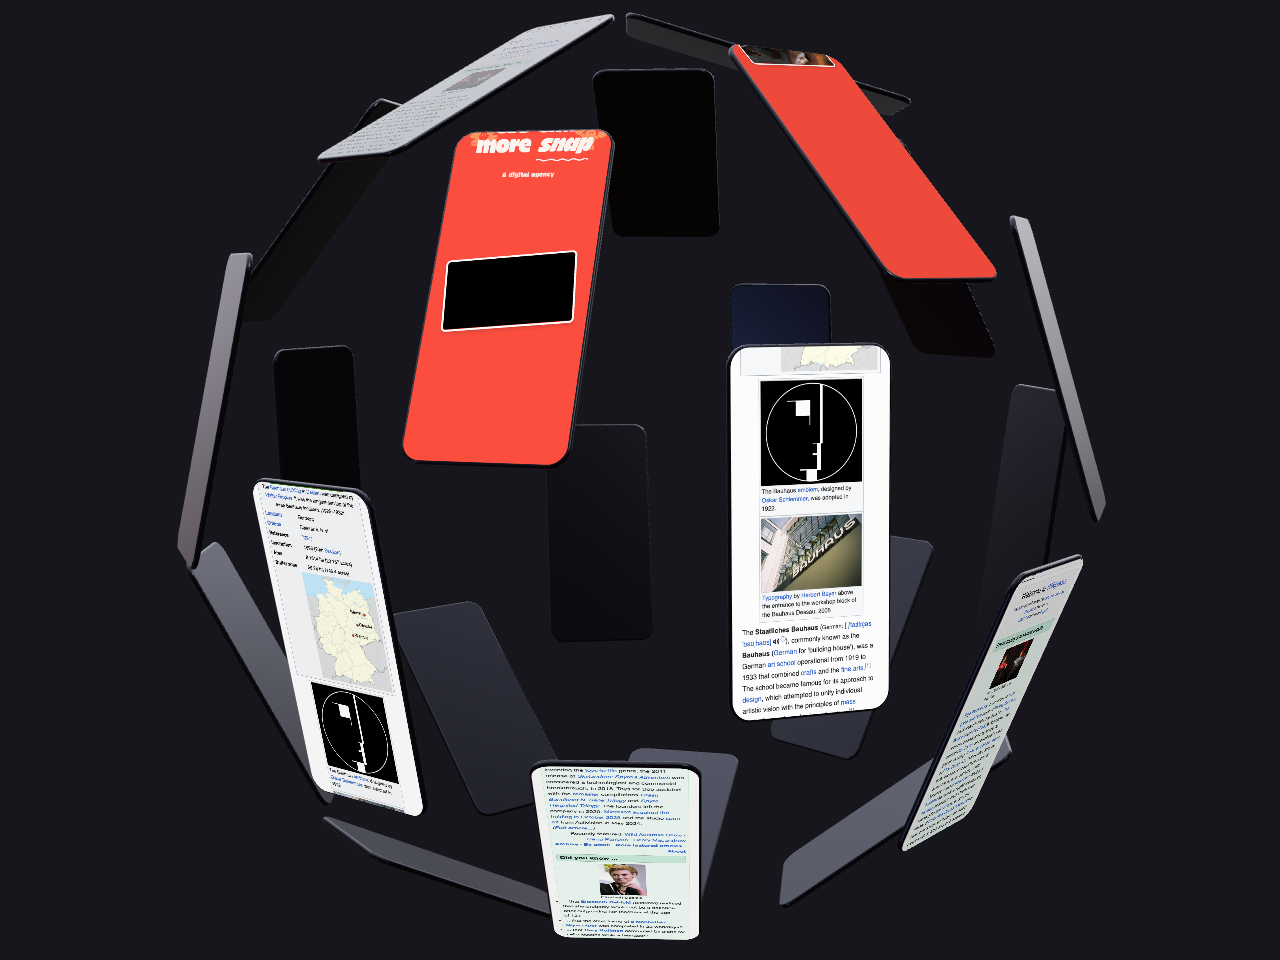
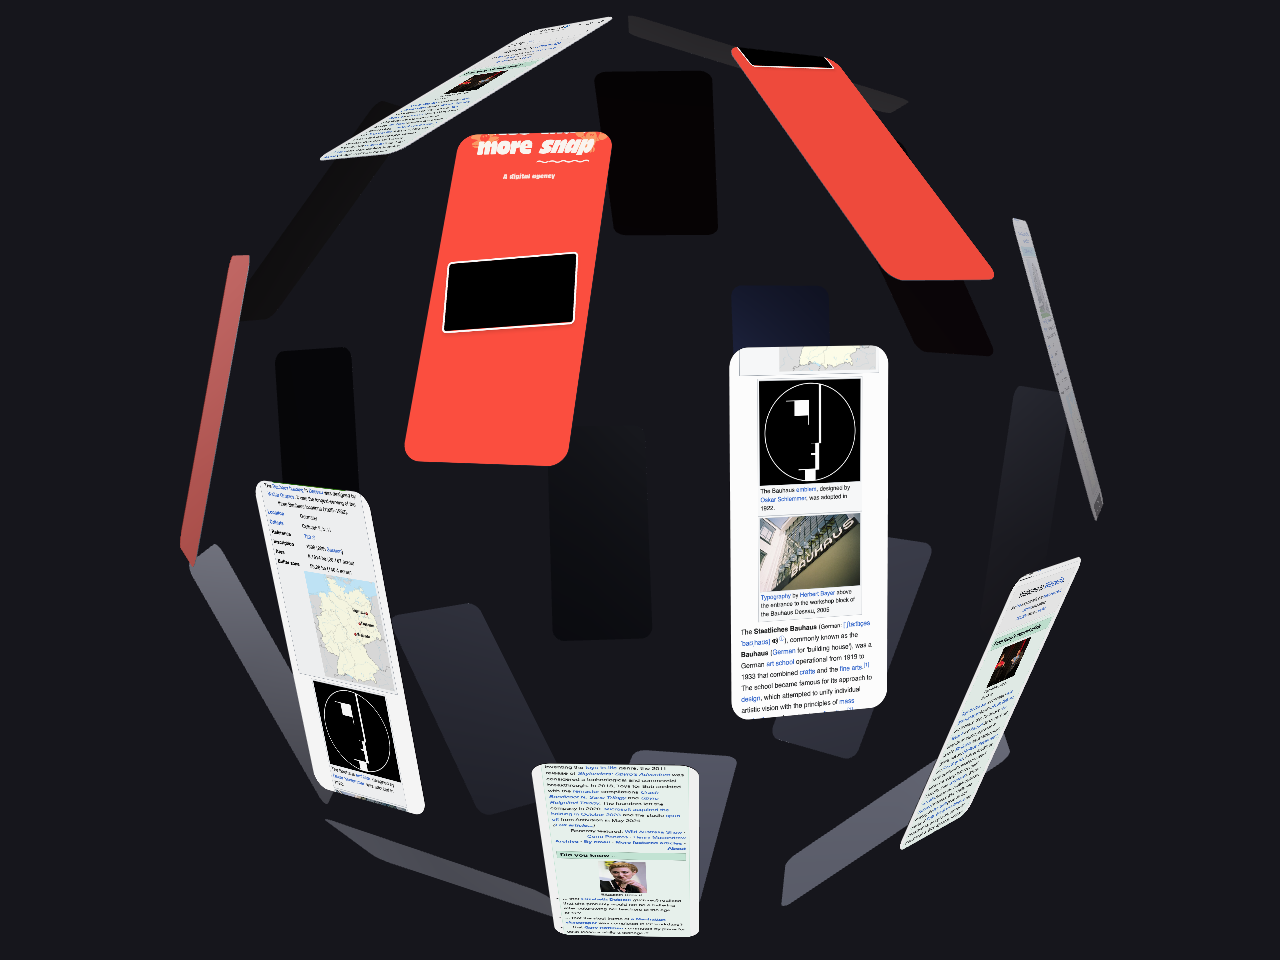
regen

diff --git a/README.md b/README.md
@@ -29,18 +29,30 @@ speed of 0 leaves a wall that only moves when you do. The screens are deliberate
 not clickable there: the embedded pages would otherwise swallow the wheel. Every
 tile is a live iframe, so a 6 × 6 wall is 36 pages loading at once.
 
-**Mobile sphere** spreads bare screens — no phone body — evenly over a sphere, each
-one tangent to it and facing out, so the near ones are large and the far ones small.
-Drag to turn it and let go to throw it; the wheel zooms. **Screens** sizes the
-screens too, since they're scaled to the spacing that count works out at, and
-**Spin** is the idle turn it makes on its own. Sites are a repeating list again, but
-a site that comes round a second time is shown from a different point down its page
-— so a single URL still fills the sphere with different screens. Like the wall, the
-screens aren't clickable: a page would swallow the drag and scroll itself instead.
+**Mobile sphere** spreads screens evenly over a sphere, each one tangent to it and
+facing out, so the near ones are large and the far ones small. Drag to turn it and
+let go to throw it; the wheel zooms. Sites are a repeating list again, but a site
+that comes round a second time is shown from a different point down its page — so a
+single URL still fills the sphere with different screens. Like the wall, the screens
+aren't clickable: a page would swallow the drag and scroll itself instead.
+
+**Screens** switches the whole sphere between phone screens at 393 × 852 and desktop
+ones at 1280 × 800, which is what decides whether sites render their mobile or their
+desktop breakpoint. **Device body** wraps each screen in a phone or a bezel; with it
+off a screen is a flat rounded rectangle with no thickness at all — just the page.
+
+On the **Sphere** tab, **Screens** sets how many there are and sizes them with it
+(they're scaled to the spacing that count works out at), **Spin** is the idle turn it
+makes on its own, and **Zoom** / **Left–right** / **Up–down** frame it: the offsets
+are half-viewports either side of centre, so ±1 parks the middle of the sphere on the
+edge of frame. The wheel drives the same zoom and lands back on the slider when it
+stops.
 
 About half the screens face away at any time, and a DOM overlay has no back face —
-turned past edge-on it would render its page mirrored. Each one fades out just
-before it gets there, leaving the dark glass to come round the far side.
+turned past edge-on it would render its page mirrored. **Screens on both sides**
+turns the page round behind the glass as that happens, so the far half of the sphere
+reads as well as the near one and it still costs one iframe per screen. Off, each
+page fades out just before edge-on and the dark glass comes round instead.
 
 **Scroll the pages** pans every page down its own length and eases back up, all at
 one speed — on the sphere each screen starts at its own point in that pass. A
@@ -80,9 +92,14 @@ gets a clean frame:
 | `rot`         | mobile-grid | `rot=-35` degrees (−90–90)                 |
 | `speed`       | mobile-grid | `speed=0` screens per second (0–4)         |
 | `frame`       | mobile-grid | `frame=0` drops the phone bodies           |
+| `device`      | mobile-sphere | `device=desktop` for 1280 × 800 screens  |
+| `body`        | mobile-sphere | `body=1` adds the phone / bezel          |
 | `count`       | mobile-sphere | `count=30` screens (3–36)                |
 | `size`        | mobile-sphere | `size=1.2` of the even spacing (0.5–1.5) |
+| `both`        | mobile-sphere | `both=1` puts a page on both sides       |
 | `spin`        | mobile-sphere | `spin=0` degrees per second (0–60)       |
+| `zoom`        | mobile-sphere | `zoom=1.4` of the fitted size (0.6–1.8)  |
+| `x`, `y`      | mobile-sphere | `x=-0.45&y=0.25` half-viewports (−1–1)   |
 
 On the wall and the sphere, `url` is shorthand for a one-site `urls` — which on the
 sphere is the interesting case, since every screen then shows that one site from its
